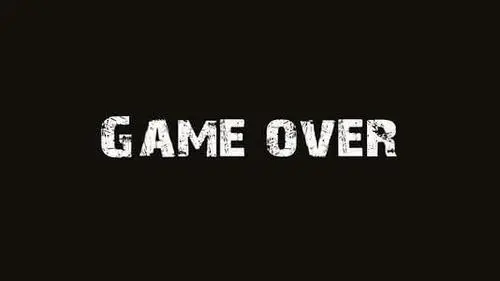
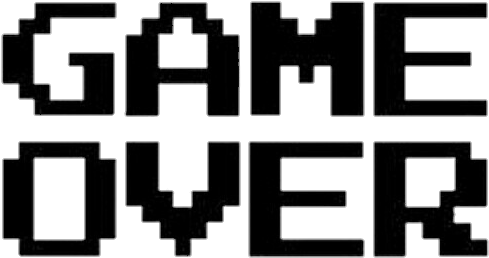
[ADD]贪吃蛇的完成

diff --git a/snake/game.js b/snake/game.js
@@ -1,6 +1,8 @@
 // 设计游戏类
 class Game{
-    constructor(select, scoreEle) {
+    constructor(select, scoreEle, gameoverbg) {
+        this.startbtn = document.querySelector("#start");
+        this.gameoverimg = document.querySelector(gameoverbg);
         // 地图
         this.map = document.querySelector(select);
         // 计分板
@@ -16,6 +18,7 @@ class Game{
     }
     // 定义游戏开始的方法
     start(){
+        this.gameoverimg.style.display = "none";
         this.timer = setInterval(() => {
             // 让蛇动起来
             this.snake.move();
@@ -32,12 +35,17 @@ class Game{
             if (this.snake.isDie()) {
                 clearInterval(this.timer);
                 this.gameover();
+
             }
-        }, 250);
+            // 禁用开始按钮的点击
+            this.startbtn.disabled = true;
+        }, 100);
     }
     // 暂停
     pause() {
         clearInterval(this.timer);
+        // 释放开始按钮的点击
+        this.startbtn.disabled = false;
     }
     // 重新开始
     restart() {
@@ -54,7 +62,9 @@ class Game{
     }
     // 游戏结束的方法
     gameover(){
-        alert("GAMEOVER");
+        this.gameoverimg.style.display = "block";
+        // 禁用掉开始按钮的点击
+        this.startbtn.disabled = true;
     }
 
     getKey(){

diff --git a/snake/index.html b/snake/index.html
@@ -87,13 +87,19 @@
             font-weight: bold;
         }
         .panbg{
-            width: 100%;
-            height: 100%;
-            background:  url("../imgs/gameover.png") no-repeat;
+            width: 1000px;
+            height: 600px;
+            background: white url("../imgs/gameover.png") no-repeat;
             background-size: 500px;
             background-position: center;
             position: fixed;
             z-index: 999;
+            top: 0;
+            left: 0;
+            right: 0;
+            bottom: 0;
+            margin: auto;
+            display: none;
         }
 
     </style>
@@ -104,7 +110,7 @@
         <div class="score">得分: <span>0</span></div>
         <button id="start">开始</button>
         <button id="pause">暂停</button>
-        <button id="restart">结束</button>
+        <button id="restart">重玩</button>
 
     </div>
     <div class="map">
@@ -116,7 +122,7 @@
     <script src="game.js"></script>
 
     <script>
-        const game = new Game(".map", ".score span");
+        const game = new Game(".map", ".score span", ".panbg");
         // 拿到按钮
         const start = document.querySelector("#start");
         const pause = document.querySelector("#pause");
